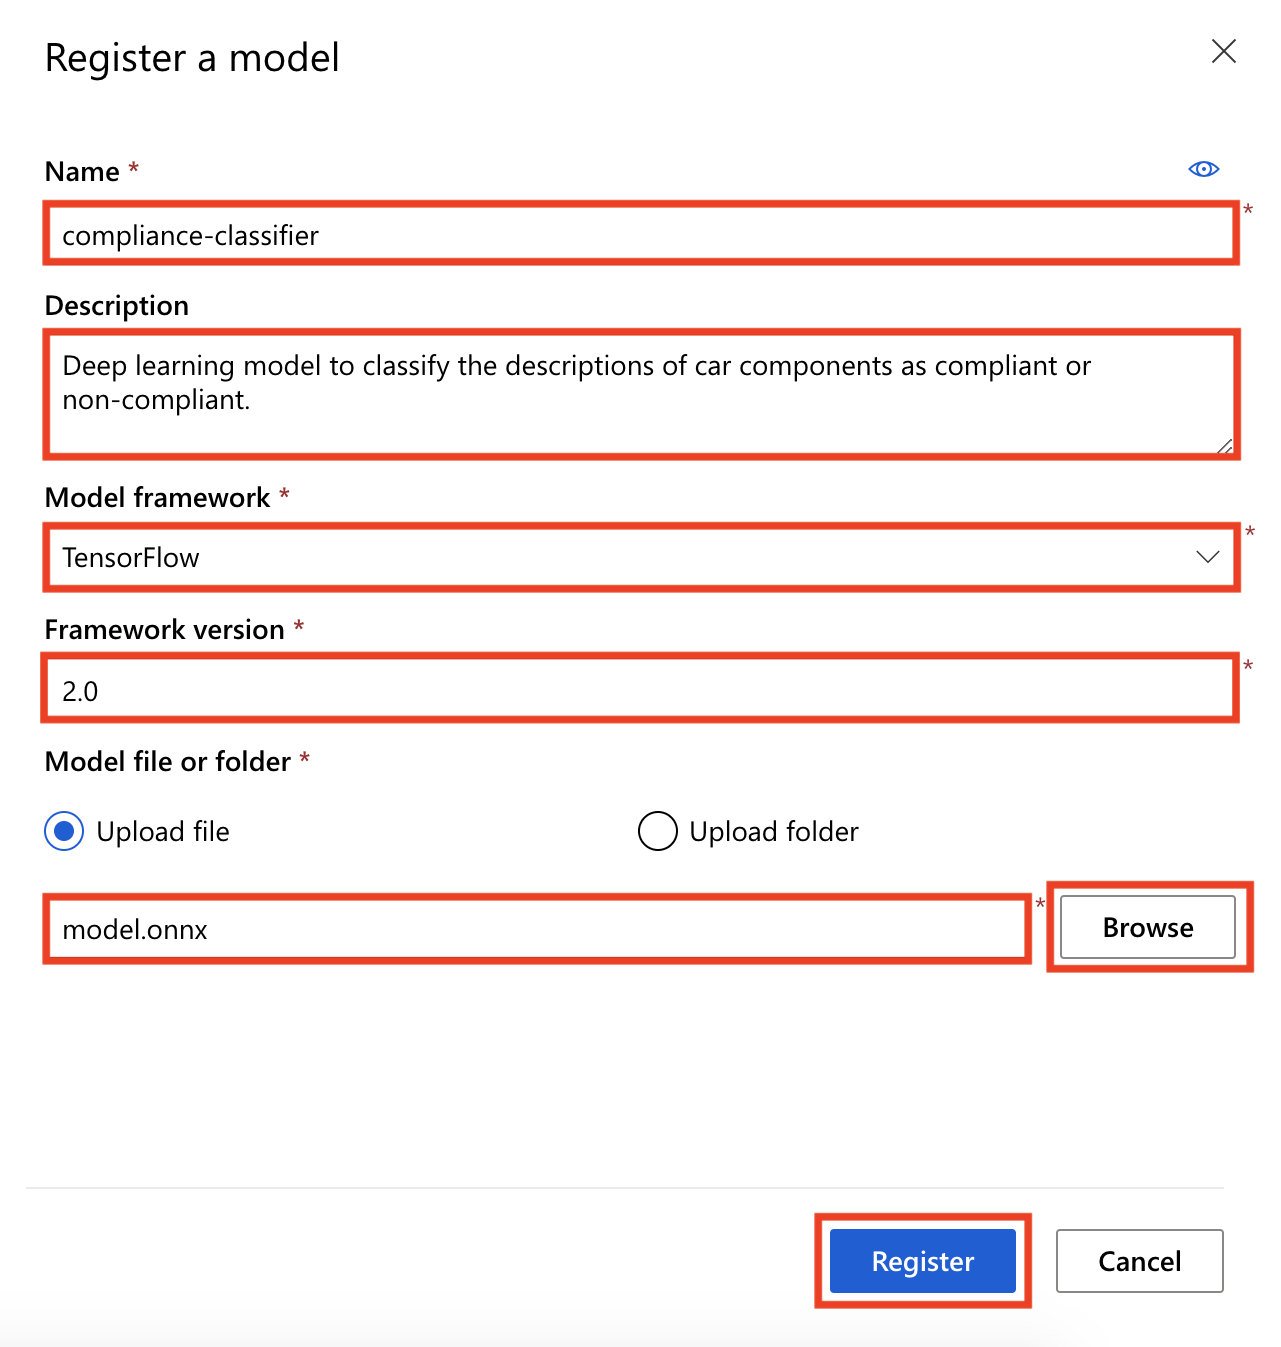
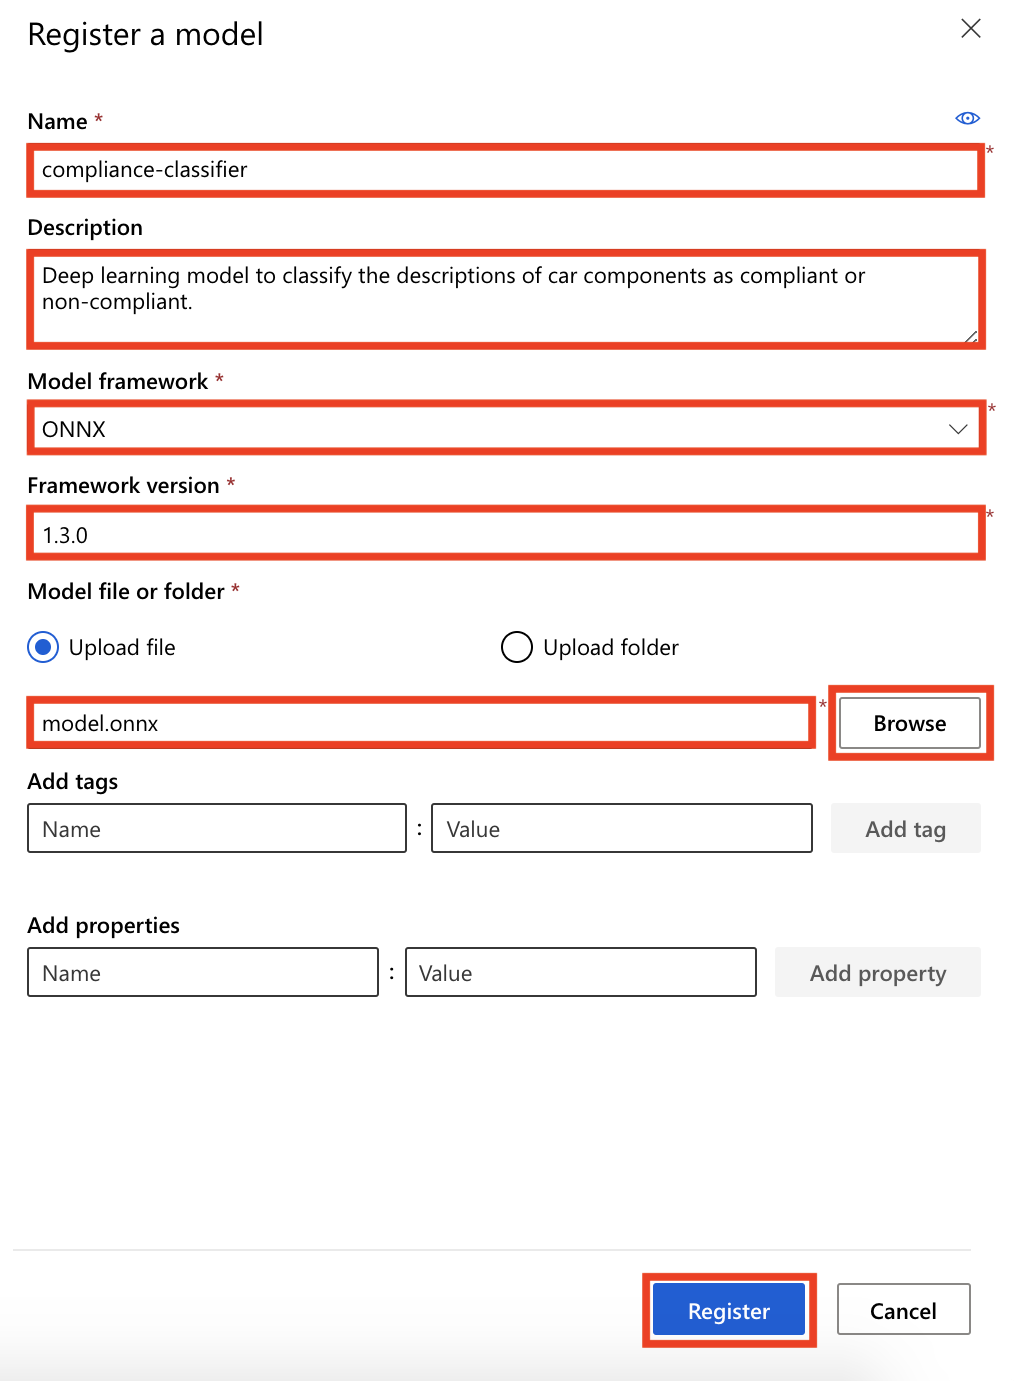
October 2020 updates

diff --git a/Hands-on lab/HOL step-by-step - MLOps.md b/Hands-on lab/HOL step-by-step - MLOps.md
@@ -213,9 +213,9 @@ In this exercise, you explore the approaches you can take to managing the model 
 
     b. Description: `Deep learning model to classify the descriptions of car components as compliant or non-compliant.`
 
-    c. Model Framework: **TensorFlow**
+    c. Model Framework: **ONNX**
 
-    d. Model Framework Version: `2.0`
+    d. Model Framework Version: `1.3.0`
 
     e. Model file: Select the `model.onnx` file from your local disk.
 
@@ -799,13 +799,15 @@ Duration: 40 minutes
 
     ![In Azure Machine Learning Studio, the Endpoints item is selected from the left menu. In the list of Endpoints, the compliance-classifier-service is selected.](media/devops-test-pipelines-08.png 'Azure Machine Learning studio - Workspace, Deployments')
 
-## Exercise 8: Testing the deployed solution
+## Exercise 8: Testing the deployed solution and review deployed model datasheet
 
 Duration: 15 minutes
 
-In this exercise, you verify that the first release of the application works.
+Documenting the right information in the machine learning process is key to making responsible decisions at each stage. Datasheets are a way to document machine learning assets that are used and created as part of the machine learning lifecycle. [Annotation and Benchmarking on Understanding and Transparency of Machine Learning Lifecycles (ABOUT ML), an initiative from the Partnership in AI (PAI)](https://www.partnershiponai.org/about-ml), provides a set of guidelines for machine learning system developers to develop, test, and implement machine learning system documentation. Developers can use Azure Machine Learning SDK to implement datasheets for models as part of the model registration processes in Azure Machine Learning workspace. During model registration, the tags parameter in the register method of the Model class can be leverage to document the necessary datasheet information recommended in the established guidelines.
 
-### Task 1: Test the Deployment
+In this exercise, you verify that the release of the application works. You will also review the deployed model datasheet.
+
+### Task 1: Test the deployment and review model datasheet
 
 1. Download the [**Test Deployment.ipynb**](./notebooks/Test&#32;Deployment.ipynb) notebook to your computer, by selecting the **Raw** view in GitHub, and then **right-click + Save as**. Please ensure that the extension of the saved file is `.ipynb`. This is the notebook you will step through executing in this exercise.
 
